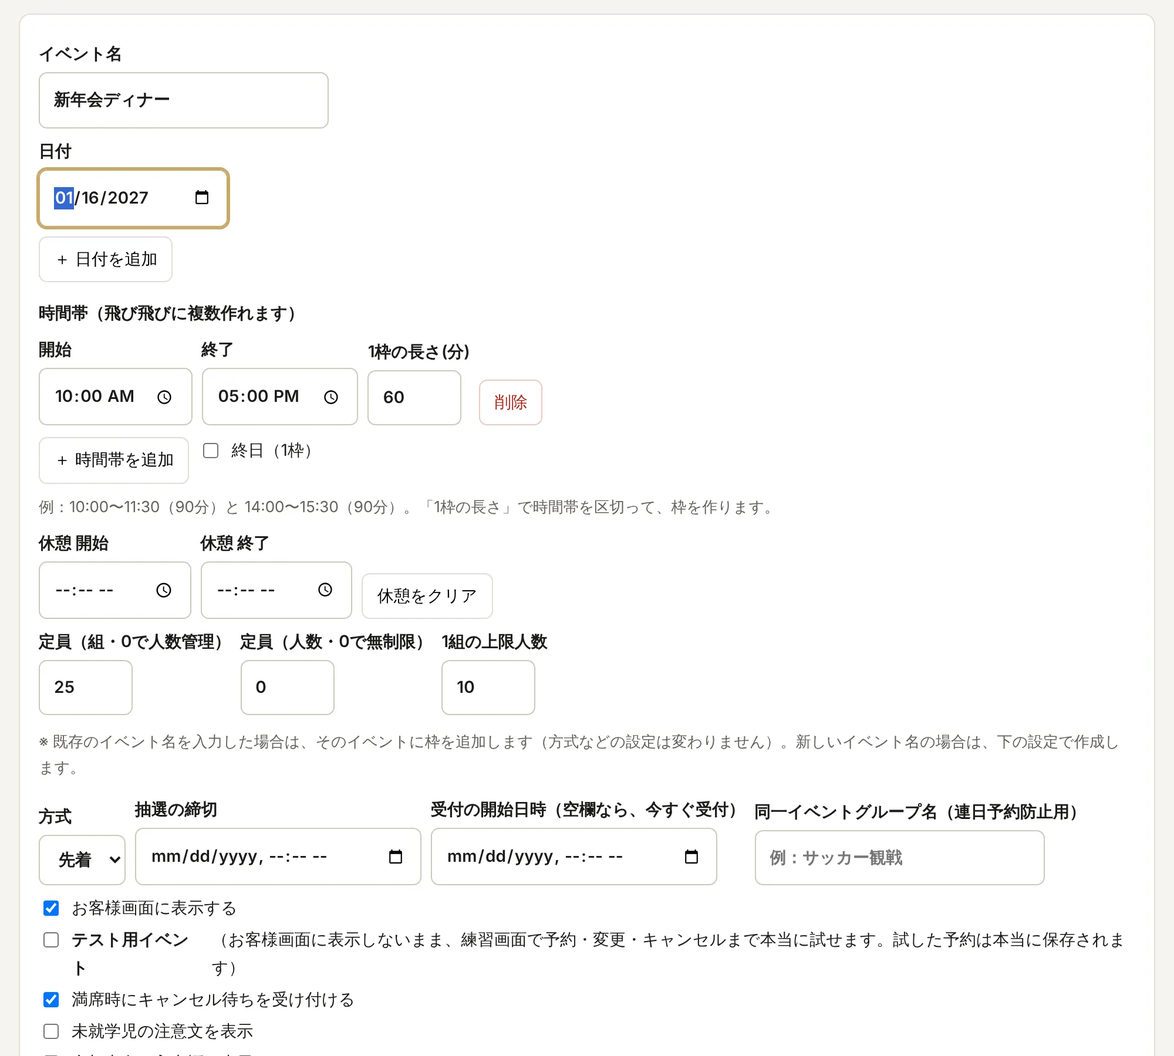
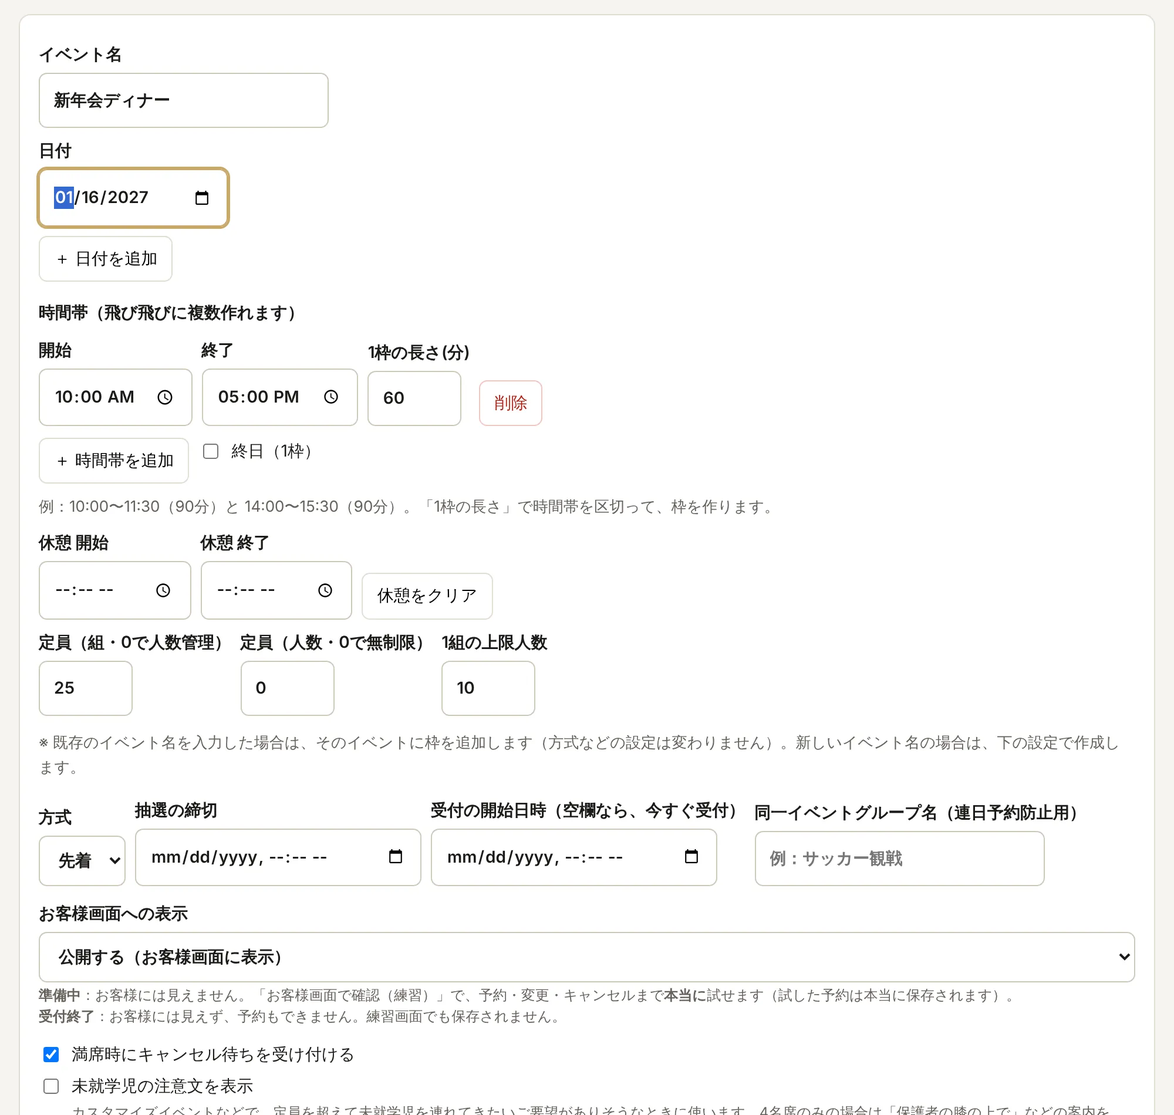
イベントの「お客様画面に表示する」と「テスト用イベント」を、1つの選択にまとめる
- 管理画面の「お客様画面への表示」：公開する／準備中／受付終了
  ・準備中：お客様には見えない。練習画面で、予約・変更・キャンセルまで本当に試せる（旧：テスト用イベント）
  ・受付終了：お客様には見えず、予約もできない。練習画面でも保存されない
- 今までの設定はそのまま引き継ぐ（表示ON→公開／非表示＋テスト用→準備中／非表示→受付終了）
- イベント一覧の印と、練習画面の表示を「準備中」「受付終了」に変更
- スタッフ説明書（STEP 5・6、困ったとき）と画面の見本を新しい画面に更新

Claude-Session: https://claude.ai/code/session_012tdtVNW6wGkA4jAxcPNDsm

diff --git a/staff-guide.html b/staff-guide.html
@@ -83,14 +83,14 @@ main.wrap{padding-block:8px 48px;display:grid;gap:8px}
   <ol class="notes"><li><b class="num">①</b><span>「招待枠」にチェックを入れた申し込みは、抽選より先に当選になります（定員の範囲内）。チェックは抽選待ちの間だけ変えられます。</span></li><li><b class="num">②</b><span>「抽選を実行する」を押すと、当選・キャンセル待ち・落選が決まります。お客様は「予約の確認」で結果を見られます。</span></li></ol><div class="caution" role="note"><p class="caution-title">ご注意</p><p>抽選は一度実行すると取り消せず、そのあとは新しい申し込みができなくなります。必ず締切を過ぎてから実行してください。</p></div>
 </section><section class="step" id="step5">
   <div class="head"><p class="eyebrow">STEP 5</p><h2>イベントと枠を作る</h2><p class="lead">「イベント・枠」タブの「枠を作成する」で作ります。入力したら、いちばん下の「枠を作成」を押します。</p></div>
-  <div class="shot"><div class="frame" style="aspect-ratio:1000/900"><img src="staff-guide/05-create.webp" alt="イベントと枠を作るの画面" width="1000" height="900" loading="lazy"><span class="mark" style="left:3.30%;top:6.90%;width:24.70%;height:5.23%"><b>①</b></span><span class="mark" style="left:3.30%;top:13.02%;width:93.40%;height:8.47%"><b>②</b></span><span class="mark" style="left:3.30%;top:28.05%;width:93.40%;height:21.23%"><b>③</b></span><span class="mark" style="left:3.30%;top:59.53%;width:93.40%;height:8.24%"><b>④</b></span><span class="mark" style="left:3.30%;top:75.43%;width:93.40%;height:8.47%"><b>⑤</b></span><span class="mark" style="left:3.30%;top:87.79%;width:93.40%;height:5.13%"><b>⑥</b></span></div></div>
-  <ol class="notes"><li><b class="num">①</b><span>イベント名です。作成済みのイベント名を入れると、そのイベントに枠を追加します。</span></li><li><b class="num">②</b><span>日付です。「＋ 日付を追加」で、複数の日にまとめて作れます。</span></li><li><b class="num">③</b><span>時間帯と1枠の長さです。例：10:00〜17:00を60分ごと。「終日（1枠）」も選べます。休憩の時間は枠から除かれます。</span></li><li><b class="num">④</b><span>定員です。組数で決めるか、組を「0」にして人数で決めます（例：12名）。1組の上限人数も決めます。</span></li><li><b class="num">⑤</b><span>方式（先着・抽選）と、受付の開始日時を決めます。抽選のときは締切も入れます。</span></li><li><b class="num">⑥</b><span>「テスト用イベント」にチェックを入れると、お客様には表示されず、練習画面で予約まで試せます。</span></li></ol>
+  <div class="shot"><div class="frame" style="aspect-ratio:1000/950"><img src="staff-guide/05-create.webp" alt="イベントと枠を作るの画面" width="1000" height="950" loading="lazy"><span class="mark" style="left:3.30%;top:6.54%;width:24.70%;height:4.96%"><b>①</b></span><span class="mark" style="left:3.30%;top:12.34%;width:93.40%;height:8.02%"><b>②</b></span><span class="mark" style="left:3.30%;top:26.58%;width:93.40%;height:20.12%"><b>③</b></span><span class="mark" style="left:3.30%;top:56.40%;width:93.40%;height:7.81%"><b>④</b></span><span class="mark" style="left:3.30%;top:71.46%;width:93.40%;height:8.02%"><b>⑤</b></span><span class="mark" style="left:3.30%;top:80.74%;width:93.40%;height:11.38%"><b>⑥</b></span></div></div>
+  <ol class="notes"><li><b class="num">①</b><span>イベント名です。作成済みのイベント名を入れると、そのイベントに枠を追加します。</span></li><li><b class="num">②</b><span>日付です。「＋ 日付を追加」で、複数の日にまとめて作れます。</span></li><li><b class="num">③</b><span>時間帯と1枠の長さです。例：10:00〜17:00を60分ごと。「終日（1枠）」も選べます。休憩の時間は枠から除かれます。</span></li><li><b class="num">④</b><span>定員です。組数で決めるか、組を「0」にして人数で決めます（例：12名）。1組の上限人数も決めます。</span></li><li><b class="num">⑤</b><span>方式（先着・抽選）と、受付の開始日時を決めます。抽選のときは締切も入れます。</span></li><li><b class="num">⑥</b><span>「お客様画面への表示」を「準備中」にすると、お客様には表示されず、練習画面で予約・変更・キャンセルまで本当に試せます（試した予約は本当に保存されます）。</span></li></ol>
 </section><section class="step" id="step6">
   <div class="head"><p class="eyebrow">STEP 6</p><h2>イベントの設定を変える</h2><p class="lead">作成済みのイベントの「設定・枠を開く」から変更します。</p></div>
-  <div class="shot"><div class="frame" style="aspect-ratio:1000/1110"><img src="staff-guide/06-settings.webp" alt="イベントの設定を変えるの画面" width="1000" height="1110" loading="lazy"><span class="mark" style="left:36.70%;top:9.23%;width:26.76%;height:6.86%"><b>①</b></span><span class="mark" style="left:3.30%;top:19.26%;width:93.40%;height:4.16%"><b>②</b></span><span class="mark" style="left:3.30%;top:76.33%;width:9.63%;height:3.52%"><b>③</b></span><span class="mark" style="left:13.73%;top:76.33%;width:23.73%;height:3.52%"><b>④</b></span><span class="mark" style="left:3.40%;top:87.54%;width:93.20%;height:4.87%"><b>⑤</b></span></div></div>
-  <ol class="notes"><li><b class="num">①</b><span>受付の開始日時です。空欄なら、すぐに受付が始まります。</span></li><li><b class="num">②</b><span>テスト用イベントにするかどうかです。そのすぐ上の「お客様画面に表示する」で、表示・非表示も切り替えられます。</span></li><li><b class="num">③</b><span>「設定を保存」で、お客様画面に反映されます。</span></li><li><b class="num">④</b><span>「保存前の設定でお客様画面を確認」で、保存する前の設定のまま、お客様画面を開いて試せます。お客様には見えず、予約も保存されません。</span></li><li><b class="num">⑤</b><span>枠ごとに定員を変えられます。変えたら、その行の「保存」を押します。予約が残っている枠は削除できません。</span></li></ol><div class="caution" role="note"><p class="caution-title">ご注意</p><p>公開中のイベントの受付時間を変えるときは、先に④で確認してから保存してください。</p></div>
+  <div class="shot"><div class="frame" style="aspect-ratio:1000/1340"><img src="staff-guide/06-settings.webp" alt="イベントの設定を変えるの画面" width="1000" height="1340" loading="lazy"><span class="mark" style="left:36.70%;top:7.65%;width:26.76%;height:5.69%"><b>①</b></span><span class="mark" style="left:3.30%;top:14.23%;width:93.40%;height:8.07%"><b>②</b></span><span class="mark" style="left:3.30%;top:79.85%;width:9.63%;height:2.92%"><b>③</b></span><span class="mark" style="left:13.73%;top:79.85%;width:23.73%;height:2.92%"><b>④</b></span><span class="mark" style="left:3.40%;top:89.14%;width:93.20%;height:4.04%"><b>⑤</b></span></div></div>
+  <ol class="notes"><li><b class="num">①</b><span>受付の開始日時です。空欄なら、すぐに受付が始まります。</span></li><li><b class="num">②</b><span>「お客様画面への表示」です。公開する／準備中／受付終了を切り替えます。</span></li><li><b class="num">③</b><span>「設定を保存」で、お客様画面に反映されます。</span></li><li><b class="num">④</b><span>「保存前の設定でお客様画面を確認」で、保存する前の設定のまま、お客様画面を開いて試せます。お客様には見えず、予約も保存されません。</span></li><li><b class="num">⑤</b><span>枠ごとに定員を変えられます。変えたら、その行の「保存」を押します。予約が残っている枠は削除できません。</span></li></ol><div class="caution" role="note"><p class="caution-title">ご注意</p><p>公開中のイベントの受付時間を変えるときは、先に④で確認してから保存してください。</p></div>
   <div class="opts"><h3>設定の項目の説明</h3><dl>
-    <div><dt>お客様画面に表示する</dt><dd>チェックを外すと、お客様画面に出さずに準備できます。</dd></div>
+    <div><dt>お客様画面への表示</dt><dd><b>公開する</b>：お客様画面に表示します。<br><b>準備中</b>：お客様には見えません。「お客様画面で確認（練習）」で、予約・変更・キャンセルまで<b>本当に</b>試せます（試した予約は本当に保存されます。終わったら、イベントを削除するか、予約を取り消してください）。<br><b>受付終了</b>：お客様には見えず、予約もできません。練習画面でも保存されません。</dd></div>
     <div><dt>未就学児の注意文を表示</dt><dd>カスタマイズイベントなどで、定員を超えて未就学児を連れてきたいというご要望がありそうなときに使います。席が4名席のみの場合は、「保護者の膝の上で」などの案内を、下の「未就学児の注意文」に入力してください。</dd></div>
     <div><dt>参加者名の入力欄を表示</dt><dd>ゴルフやホテル宿泊など、お連れ様のお名前が必要なイベントで、入力欄を出せます。未入力でも予約でき、あとからお客様が編集できます。</dd></div>
     <div><dt>ゴルフ</dt><dd>未就学児は参加できないため、人数が2名以上でもお子様の選択肢が出ません。参加者1には、自動的に申込者のお名前が入ります。</dd></div>
@@ -106,7 +106,7 @@ main.wrap{padding-block:8px 48px;display:grid;gap:8px}
 <div class="qa"><p class="q">パスワードを忘れたとき</p><p class="a">ログイン画面でメールアドレスを入力し、「パスワードを忘れた方」を押します。届いたメールのリンクから、新しいパスワードを決めます。</p></div>
 <div class="qa"><p class="q">設定の項目の意味がわからないとき</p><p class="a">「イベント・枠」の設定画面では、各項目のすぐ下に説明が出ています。この説明書のSTEP 6にも、まとめて載せています。</p></div>
 </section>
-<section class="faq" id="faq"><h2>困ったとき</h2><div class="qa"><p class="q">お客様が予約番号を忘れた</p><p class="a">予約一覧で、お名前や電話番号から予約を探し、予約番号をお伝えします。オーナーズカードIDを登録しているお客様は、ご自分でも探せます。</p></div><div class="qa"><p class="q">枠の「組・名」の数字が予約と合わない</p><p class="a">予約一覧の「人数を数え直す」を押すと、予約から数え直して正しい数字になります。</p></div><div class="qa"><p class="q">本番の前に、予約の流れを試したい</p><p class="a">テスト用イベントを作り、「保存前の設定でお客様画面を確認」から予約・変更・キャンセルまで試せます。終わったらイベントを削除します。</p></div></section>
+<section class="faq" id="faq"><h2>困ったとき</h2><div class="qa"><p class="q">お客様が予約番号を忘れた</p><p class="a">予約一覧で、お名前や電話番号から予約を探し、予約番号をお伝えします。オーナーズカードIDを登録しているお客様は、ご自分でも探せます。</p></div><div class="qa"><p class="q">枠の「組・名」の数字が予約と合わない</p><p class="a">予約一覧の「人数を数え直す」を押すと、予約から数え直して正しい数字になります。</p></div><div class="qa"><p class="q">本番の前に、予約の流れを試したい</p><p class="a">表示を「準備中」にしたイベントを作り、「保存前の設定でお客様画面を確認」から予約・変更・キャンセルまで本当に試せます。終わったらイベントを削除します。</p></div></section>
 <p class="foot"><a href="admin.html" style="color:inherit">← 管理画面へ戻る</a>　／　<a href="guide.html" target="_blank" rel="noopener" style="color:inherit">お客様向けの説明書</a></p>
 </main>
 </body>

diff --git a/admin.html b/admin.html
@@ -275,13 +275,14 @@ function optHTML(p,e){
    '<label>抽選の締切<input type="datetime-local" id="'+p+'d" value="'+dtl(e.deadlineMs)+'"></label>'+
    '<label>受付の開始日時（空欄なら、今すぐ受付）<input type="datetime-local" id="'+p+'a" value="'+dtl(e.openAtMs)+'"></label>'+
    '<label>同一イベントグループ名（連日予約防止用）<input id="'+p+'g" value="'+esc(e.group)+'" placeholder="例：サッカー観戦"></label></div>'+
-   '<div>'+chk(p+'v',e.visible!==false,'お客様画面に表示する','チェックを外すと、お客様画面に出さずに準備できます。')+chk(p+'ts',!!e.test,'<b>テスト用イベント</b>（お客様画面に表示しないまま、練習画面で予約・変更・キャンセルまで本当に試せます。試した予約は本当に保存されます）')+chk(p+'w',e.wait!==false,'満席時にキャンセル待ちを受け付ける')+chk(p+'l',!!e.lap,'未就学児の注意文を表示','カスタマイズイベントなどで、定員を超えて未就学児を連れてきたいご要望がありそうなときに使います。4名席のみの場合は「保護者の膝の上で」などの案内を、下の「未就学児の注意文」に入力してください。')+chk(p+'n',!!e.names,'参加者名の入力欄を表示','ゴルフやホテル宿泊など、お連れ様のお名前が必要なイベントで入力欄を出せます。未入力でも予約でき、あとからお客様が編集できます。')+chk(p+'gf',!!e.golf,'ゴルフ（お子様の選択なし・参加者名を自動で表示）','未就学児は参加できないため、2名以上でもお子様の選択肢が出ません。参加者1には申込者のお名前が自動で入ります。')+chk(p+'mo',!!e.mailOpt,'メールアドレスを任意にする（空欄でも予約できます）','必須のほうがセキュリティは高くなります（任意だと予約番号だけで変更できるため、やや低め）。個人情報をなるべく預からない観点では、任意がおすすめです。')+chk(p+'o',!!e.order,'ご注文中・新規のお客様チェック欄を表示','登録ナンバーで、お名前が違う場合（オーナーのご家族など）も判別できるようにしています。この欄を出すと、ご注文中で納車待ちのお客様も、ナンバーの入力を飛ばして参加できます。')+chk(p+'t',!!e.note,'お客様ページに備考欄を作成','お客様がご要望を入力できる備考欄を、お客様画面に出します（例：ゴルフ 9時ごろ希望）。')+'</div>'+
+   '<div><label>お客様画面への表示<select id="'+p+'vs"><option value="open"'+(e.visible!==false?' selected':'')+'>公開する（お客様画面に表示）</option><option value="prep"'+(e.visible===false&&e.test?' selected':'')+'>準備中（お客様画面に表示しない）</option><option value="closed"'+(e.visible===false&&!e.test?' selected':'')+'>受付終了（お客様画面に表示せず、予約もできない）</option></select>'+
+   '<small class="help"><b>準備中</b>：お客様には見えません。「お客様画面で確認（練習）」で、予約・変更・キャンセルまで<b>本当に</b>試せます（試した予約は本当に保存されます）。<br><b>受付終了</b>：お客様には見えず、予約もできません。練習画面でも保存されません。</small></label>'+chk(p+'w',e.wait!==false,'満席時にキャンセル待ちを受け付ける')+chk(p+'l',!!e.lap,'未就学児の注意文を表示','カスタマイズイベントなどで、定員を超えて未就学児を連れてきたいご要望がありそうなときに使います。4名席のみの場合は「保護者の膝の上で」などの案内を、下の「未就学児の注意文」に入力してください。')+chk(p+'n',!!e.names,'参加者名の入力欄を表示','ゴルフやホテル宿泊など、お連れ様のお名前が必要なイベントで入力欄を出せます。未入力でも予約でき、あとからお客様が編集できます。')+chk(p+'gf',!!e.golf,'ゴルフ（お子様の選択なし・参加者名を自動で表示）','未就学児は参加できないため、2名以上でもお子様の選択肢が出ません。参加者1には申込者のお名前が自動で入ります。')+chk(p+'mo',!!e.mailOpt,'メールアドレスを任意にする（空欄でも予約できます）','必須のほうがセキュリティは高くなります（任意だと予約番号だけで変更できるため、やや低め）。個人情報をなるべく預からない観点では、任意がおすすめです。')+chk(p+'o',!!e.order,'ご注文中・新規のお客様チェック欄を表示','登録ナンバーで、お名前が違う場合（オーナーのご家族など）も判別できるようにしています。この欄を出すと、ご注文中で納車待ちのお客様も、ナンバーの入力を飛ばして参加できます。')+chk(p+'t',!!e.note,'お客様ページに備考欄を作成','お客様がご要望を入力できる備考欄を、お客様画面に出します（例：ゴルフ 9時ごろ希望）。')+'</div>'+
    '<label>お客様画面に出すメッセージ（空欄なら非表示）<small class="help" style="font-weight:400">店舗からお客様へのご連絡や、補足のご案内に使えます。</small><textarea id="'+p+'s" rows="2">'+esc(e.msg)+'</textarea></label>'+
    '<label>未就学児の注意文（空欄なら標準の文）<textarea id="'+p+'p" rows="2">'+esc(e.lapText)+'</textarea></label>'+imgHTML(p);
 }
 function readOpt(p,name){
   var m=q(p+'m').value,dv=q(p+'d').value;
-  var o={name:name,method:m,test:q(p+'ts').checked,visible:q(p+'ts').checked?false:q(p+'v').checked,wait:q(p+'w').checked,lap:q(p+'l').checked,names:q(p+'n').checked,golf:q(p+'gf').checked,mailOpt:q(p+'mo').checked,order:q(p+'o').checked,note:q(p+'t').checked,
+  var o={name:name,method:m,test:q(p+'vs').value==='prep',visible:q(p+'vs').value==='open',wait:q(p+'w').checked,lap:q(p+'l').checked,names:q(p+'n').checked,golf:q(p+'gf').checked,mailOpt:q(p+'mo').checked,order:q(p+'o').checked,note:q(p+'t').checked,
     group:q(p+'g').value.trim(),msg:q(p+'s').value.trim(),lapText:q(p+'p').value.trim()};
   o.deadlineMs=(m==='抽選'&&dv)?new Date(dv).getTime():0;
   var av=q(p+'a').value;o.openAtMs=av?new Date(av).getTime():0;
@@ -301,7 +302,7 @@ function evView(){
    '<div id="newopt">'+optHTML('nw',{})+'</div><div class="err" id="cer"></div><button class="p" type="submit" style="max-width:260px">枠を作成</button></form></details>'+
    '<h2 style="font-size:16px">作成済みのイベント</h2>';
   if(!S.events.length)h+='<div class="card note">イベントはまだありません。</div>';
-  S.events.forEach(function(e,i){h+='<div class="card" id="ev'+i+'"><div class="tools" style="justify-content:space-between;margin:0"><b>'+esc(e.name)+'</b><span>'+(e.method==='抽選'?'<span class="tag k">抽選'+(e.drawn?'・抽選済':'')+'</span>':'<span class="tag">先着</span>')+(e.test?'<span class="tag w">テスト用</span>':e.visible===false?'<span class="tag w">非表示中</span>':'')+'</span></div><button class="s" data-open="'+i+'">設定・枠を開く</button><div id="ed'+i+'"></div></div>'});
+  S.events.forEach(function(e,i){h+='<div class="card" id="ev'+i+'"><div class="tools" style="justify-content:space-between;margin:0"><b>'+esc(e.name)+'</b><span>'+(e.method==='抽選'?'<span class="tag k">抽選'+(e.drawn?'・抽選済':'')+'</span>':'<span class="tag">先着</span>')+(e.test?'<span class="tag w">準備中</span>':e.visible===false?'<span class="tag w">受付終了</span>':'')+'</span></div><button class="s" data-open="'+i+'">設定・枠を開く</button><div id="ed'+i+'"></div></div>'});
   p.innerHTML=h;
   var addDate=function(){var d=document.createElement('div');d.className='row dr';d.innerHTML='<label>日付<input type="date" class="dt"></label>';q('dates').appendChild(d)};
   q('ad').onclick=addDate;

diff --git a/index.html b/index.html
@@ -154,7 +154,7 @@ async function home(){
       var notYet=e.openAtMs&&nowS()<e.openAtMs;
       if(notYet&&(!soon||e.openAtMs<soon))soon=e.openAtMs;
       var closed=e.method==='抽選'&&(e.drawn||(e.deadlineMs&&nowS()>e.deadlineMs));
-      var inner='<b>'+esc(e.name)+'</b>'+(PV&&e.visible===false?'<span class="tag w">非表示（練習用）</span>':'')+(e.pvDraft?'<span class="tag w">未保存の設定</span>':'')+(e.savedTest?'<span class="tag k">テスト用・本当に保存</span>':'')+
+      var inner='<b>'+esc(e.name)+'</b>'+(PV&&e.visible===false&&!e.test?'<span class="tag w">受付終了</span>':'')+(e.pvDraft?'<span class="tag w">未保存の設定</span>':'')+(e.savedTest?'<span class="tag k">準備中・本当に保存</span>':'')+
         (e.method==='抽選'?'<span class="tag k">抽選</span><span>'+(closed?'受付は終了しました':'締切 '+dl(e))+'</span>':'<span class="tag">先着順</span>')+
         (notYet?'<div class="note" style="margin-top:6px;color:#8a6d2f"><b>ご予約は '+openText(e.openAtMs)+' からです</b><br><span class="cd" data-t="'+e.openAtMs+'"></span></div>':'');
       h+='<button class="ev" data-i="'+i+'"'+((closed||notYet)?' disabled style="opacity:.55"':'')+'>'+(e.thumb?'<div class="evr"><img class="evimg" src="'+esc(e.thumb)+'" alt=""><div>'+inner+'</div></div>':inner)+'</button>';
@@ -222,7 +222,7 @@ async function pickSlot(){
     S.slots=snap.docs.map(function(d){return Object.assign({id:d.id},d.data())}).sort(function(a,b){return (a.date+a.start)<(b.date+b.start)?-1:1});
   }catch(e){app.innerHTML='<div class="card err">読み込めませんでした。電波の良い場所で、もう一度お試しください。<br><button class="s" id="rt" style="margin-top:10px">もう一度読み込む</button></div>';var rt=q('rt');if(rt)rt.onclick=pickSlot;return}
   var ev=S.ev,h='<button class="l" id="bk">← イベント一覧へ</button><h2>'+esc(ev.name)+'<small>'+(ev.method==='抽選'?'抽選のお申し込みです（締切 '+dl(ev)+'）':'先着順のお申し込みです')+'</small></h2>';
-  if(PV&&realTest(ev))h+='<div class="box" style="border-color:#c0392b"><b>テスト用イベントです。</b>ここでの予約・変更・キャンセルは<b>本当に保存</b>されます（お客様には見えません）。試し終わったら、管理画面でこのイベントを削除してください。</div>';
+  if(PV&&realTest(ev))h+='<div class="box" style="border-color:#c0392b"><b>準備中のイベントです。</b>ここでの予約・変更・キャンセルは<b>本当に保存</b>されます（お客様には見えません）。試し終わったら、管理画面でこのイベントを削除するか、予約を取り消してください。</div>';
   if(ev.msg)h+='<div class="box">'+esc(ev.msg).replace(/\n/g,'<br>')+'</div>';
   if(ev.imgN>0){h+=(ev.thumb?'<img class="gthumb" id="gt" src="'+esc(ev.thumb)+'" alt="">':'')+'<div id="gal"><button class="s" id="gb">写真・パンフレットを見る（'+ev.imgN+'枚）</button></div>'}
   var cur='';
